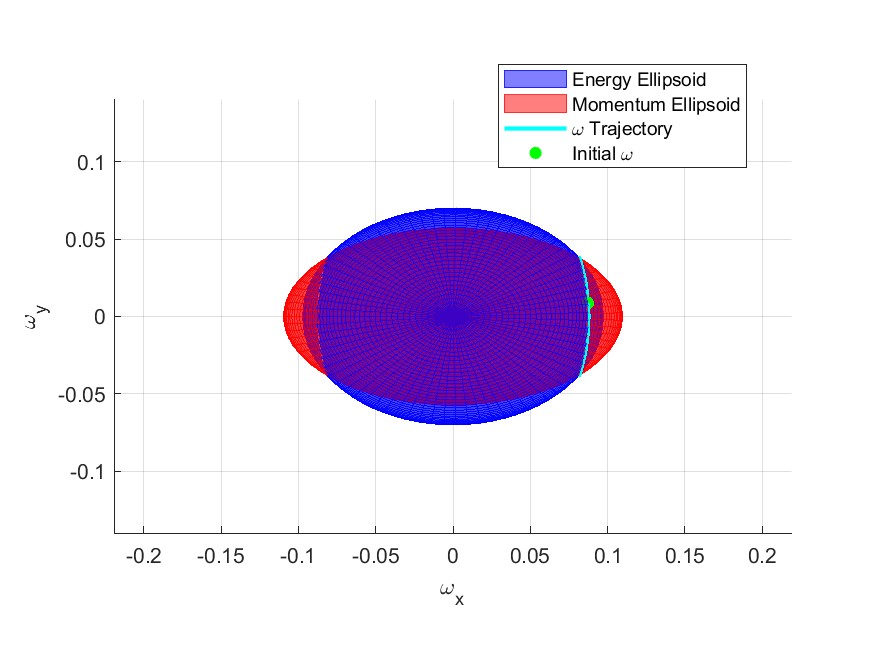
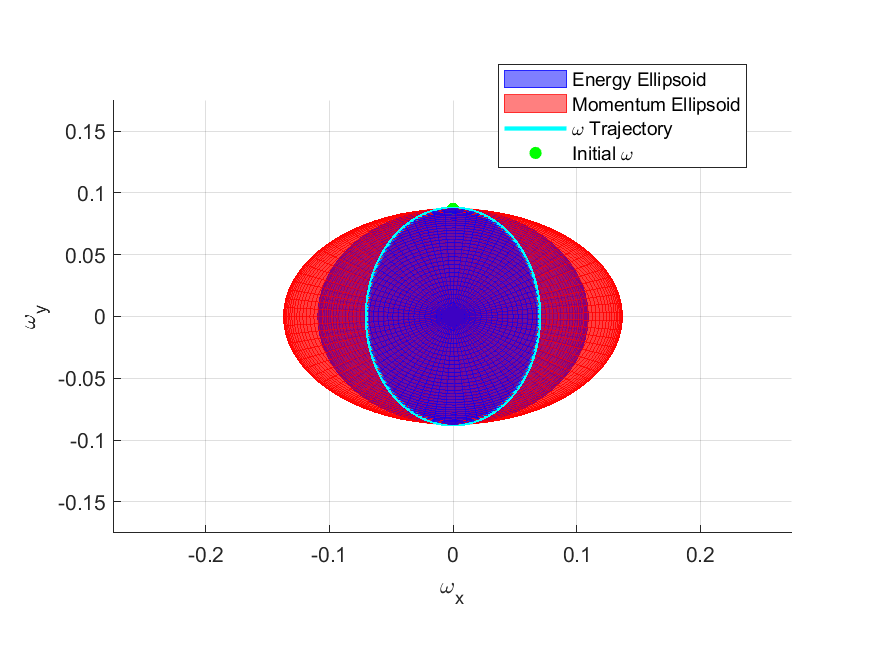
Save figs for attitude prop validation

diff --git a/Simulation_and_Propagation/Attitude_Sim_test.m b/Simulation_and_Propagation/Attitude_Sim_test.m
@@ -4,18 +4,20 @@ close all, clc, clear
 % Short cylinder w/ radius 1 m, height 1 m, mass 1 kg; z axis is through
 % the faces
 r = 1;
-h = 4;
+h = 1;
 m = 1;
 Ix = (1/12)*m*(3*r^2 + h^2);
 Iy = (1/12)*m*(3*r^2 + h^2);
 Iz = (1/2)*m*r^2;
 I_p = diag([Ix, Iy, Iz]);
-w_init = [deg2rad(0.0001), deg2rad(0.0001), deg2rad(5)];
+w_init = [deg2rad(0.5), deg2rad(0.5), deg2rad(5)];
 M = [0,0,0];
 
-tspan = [0 60*5]; % seconds
+tspan = [0 120*5]; % seconds
 options = odeset('RelTol', 1e-6, 'AbsTol', 1e-9);
 [t, w_prop] = ode113(@(t,w) PropagateAttitude(w, M, I_p), tspan, w_init, options);
+
+w_xy = sqrt(w_prop(:,1).^2 + w_prop(:,2).^2);
 
 % plot
 figure
@@ -34,6 +36,22 @@ ylabel("\omega_z, ^\circ/s")
 xlabel("Time, s")
 
 sgtitle("Cylinder Angular Rates")
+saveas(gcf, "Figures_and_Plots/AttitudeTest_CylRates.png")
+
+figure
+subplot(2,1,1)
+plot(t, rad2deg(w_prop(:,3)))
+ylabel("\omega_z")
+ylim([min(rad2deg(w_prop(:,3))) - 1, min(rad2deg(w_prop(:,3))) + 1 ])
+
+subplot(2,1,2)
+plot(t, rad2deg(w_xy))
+ylabel("\omega_{xy}")
+ylim([min(rad2deg(w_xy)) - 1, min(rad2deg(w_xy)) + 1 ])
+
+sgtitle("\omega_z and \omega_{xy} Magnitudes")
+saveas(gcf, "Figures_and_Plots/AttitudeTest_CylRateMags.png")
+
 
 % rectangular prism w/ width(x) 9 m, depth(y) 4 m, height(z) 1 m, mass 1 kg; z axis is through
 % the faces
@@ -48,7 +66,7 @@ I_p = diag([Ix, Iy, Iz]);
 w_init = [deg2rad(0.0001),  deg2rad(5), deg2rad(0.0001)];
 M = [0,0,0];
 
-tspan = [0 60*5]; % seconds
+tspan = [0 120*5]; % seconds
 options = odeset('RelTol', 1e-6, 'AbsTol', 1e-9);
 [t, w_prop] = ode113(@(t,w) PropagateAttitude(w, M, I_p), tspan, w_init, options);
 
@@ -69,4 +87,5 @@ ylabel("\omega_z, ^\circ/s")
 xlabel("Time, s")
 
 sgtitle("Rec. Prism Angular Rates")
+saveas(gcf, "Figures_and_Plots/AttitudeTest_PrismRates.png")
 

diff --git a/Simulation_and_Propagation/Energy_Momentum_Ellipsoids.m b/Simulation_and_Propagation/Energy_Momentum_Ellipsoids.m
@@ -8,15 +8,15 @@ fig_num = 1; % use this when generating plots for many w cases
 
 %% Initial Conditions
 
-% w_init = [ 0, deg2rad(5), deg2rad(0.0001)]'; % Hyperbola in XZ frame
+w_init = [ 0, deg2rad(5), deg2rad(0.0001)]'; % Hyperbola in XZ frame
 % w_init = [ 0, deg2rad(5), deg2rad(5)]'; % ellipse in XY plane
-w_init = [ deg2rad(5), deg2rad(0.5), deg2rad(1.5)]'; % ellipse in YZ plane
+% w_init = [ deg2rad(5), deg2rad(0.5), deg2rad(1.5)]'; % ellipse in YZ plane
 % w_init = [ deg2rad(5), 0, 0]'; % constant w vector -> overlap is a point
 
 
 M = [0,0,0];
 
-tspan = [0 180*5]; % seconds
+tspan = [0 1800*5]; % seconds
 
 %% Energy Ellipsoid
 
